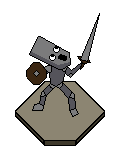
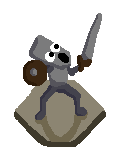
graphics update

Changed region(s): [[0.1, 0.0625, 0.9, 0.9375], [0.7, 0.5625, 0.825, 0.6562]]

diff --git a/gladiator.py b/gladiator.py
@@ -12,9 +12,10 @@ pygame.display.set_caption("snake", "snake")
 clock = pygame.time.Clock()
 framerate = 60
 
-tileCodes = {0: "floor", 1: "wall", 2: "hole", 3: "grate"}
+tileCodes = {0: "floor", 1: "wall", 2: "hole", 3: "grate", 4: "pillar"}
 imgs = {"floor": [pygame.image.load("floor.png"), 8],
-		"wall": [pygame.image.load("wall.png"), 80],
+		"wall": [pygame.image.load("wall.png"), 160],
+		"pillar": [pygame.image.load("pillar.png"), 88],
 		"grate": [pygame.image.load("grate.png"), 0],
 		"gladiator": [pygame.image.load("gladiator.png"), 80],
 		"gladiatorDying": [pygame.image.load("gladiatorDying.png"), 80],
@@ -26,13 +27,13 @@ walkableTiles = [0, 3]
 mapList = [[2, 2, 2, 2, 2, 2, 2, 2, 1, 2, 2, 2, 2, 2, 2, 2, 2],
 		   [2, 2, 2, 2, 2, 2, 1, 1, 0, 1, 1, 2, 2, 2, 2, 2, 2],
 		   [2, 2, 2, 2, 1, 1, 0, 0, 0, 0, 0, 1, 1, 2, 2, 2, 2],
-		   [2, 2, 1, 1, 0, 0, 1, 0, 0, 0, 1, 0, 0, 1, 1, 2, 2],
+		   [2, 2, 1, 1, 0, 0, 4, 0, 0, 0, 4, 0, 0, 1, 1, 2, 2],
 		   [1, 1, 0, 0, 0, 0, 0, 0, 0, 0, 0, 0, 0, 0, 0, 1, 1],
-		   [1, 0, 1, 0, 0, 0, 0, 0, 1, 0, 0, 0, 0, 0, 1, 0, 1],
-		   [1, 0, 0, 0, 0, 0, 0, 3, 1, 3, 0, 0, 0, 0, 0, 0, 1],
-		   [1, 0, 1, 0, 0, 0, 0, 3, 1, 3, 0, 0, 0, 0, 1, 0, 1],
+		   [1, 0, 4, 0, 0, 0, 0, 0, 4, 0, 0, 0, 0, 0, 4, 0, 1],
+		   [1, 0, 0, 0, 0, 0, 0, 3, 4, 3, 0, 0, 0, 0, 0, 0, 1],
+		   [1, 0, 4, 0, 0, 0, 0, 3, 4, 3, 0, 0, 0, 0, 4, 0, 1],
 		   [1, 0, 0, 0, 0, 0, 0, 0, 0, 0, 0, 0, 0, 0, 0, 0, 1],
-		   [2, 2, 2, 0, 0, 0, 1, 0, 0, 0, 1, 0, 0, 0, 2, 2, 2],
+		   [2, 2, 2, 0, 0, 0, 4, 0, 0, 0, 4, 0, 0, 0, 2, 2, 2],
 		   [2, 2, 2, 2, 2, 0, 0, 0, 0, 0, 0, 0, 2, 2, 2, 2, 2],
 		   [2, 2, 2, 2, 2, 2, 2, 0, 0, 0, 2, 2, 2, 2, 2, 2, 2],
 		   [2, 2, 2, 2, 2, 2, 2, 2, 2, 2, 2, 2, 2, 2, 2, 2, 2]]
@@ -254,7 +255,7 @@ while True:
 		posDiff = [camera[1]-playerPos[1], camera[0]-playerPos[0]]
 		cameraDist = m.sqrt((posDiff[0])**2+(posDiff[1])**2)
 		angle = m.atan2(posDiff[1], posDiff[0])
-		camera = [camera[0]-m.sin(angle)*(1*cameraDist/2), camera[1]-m.cos(angle)*(1*cameraDist/2)]
+		camera = [camera[0]-m.sin(angle)*(cameraDist/3), camera[1]-m.cos(angle)*(cameraDist/3)]
 		offset = [camera[1]-screenSize[0]/2+60, camera[0]-screenSize[1]/2+40]
 		if offset[0] < 0:
 			offset[0] = 0
